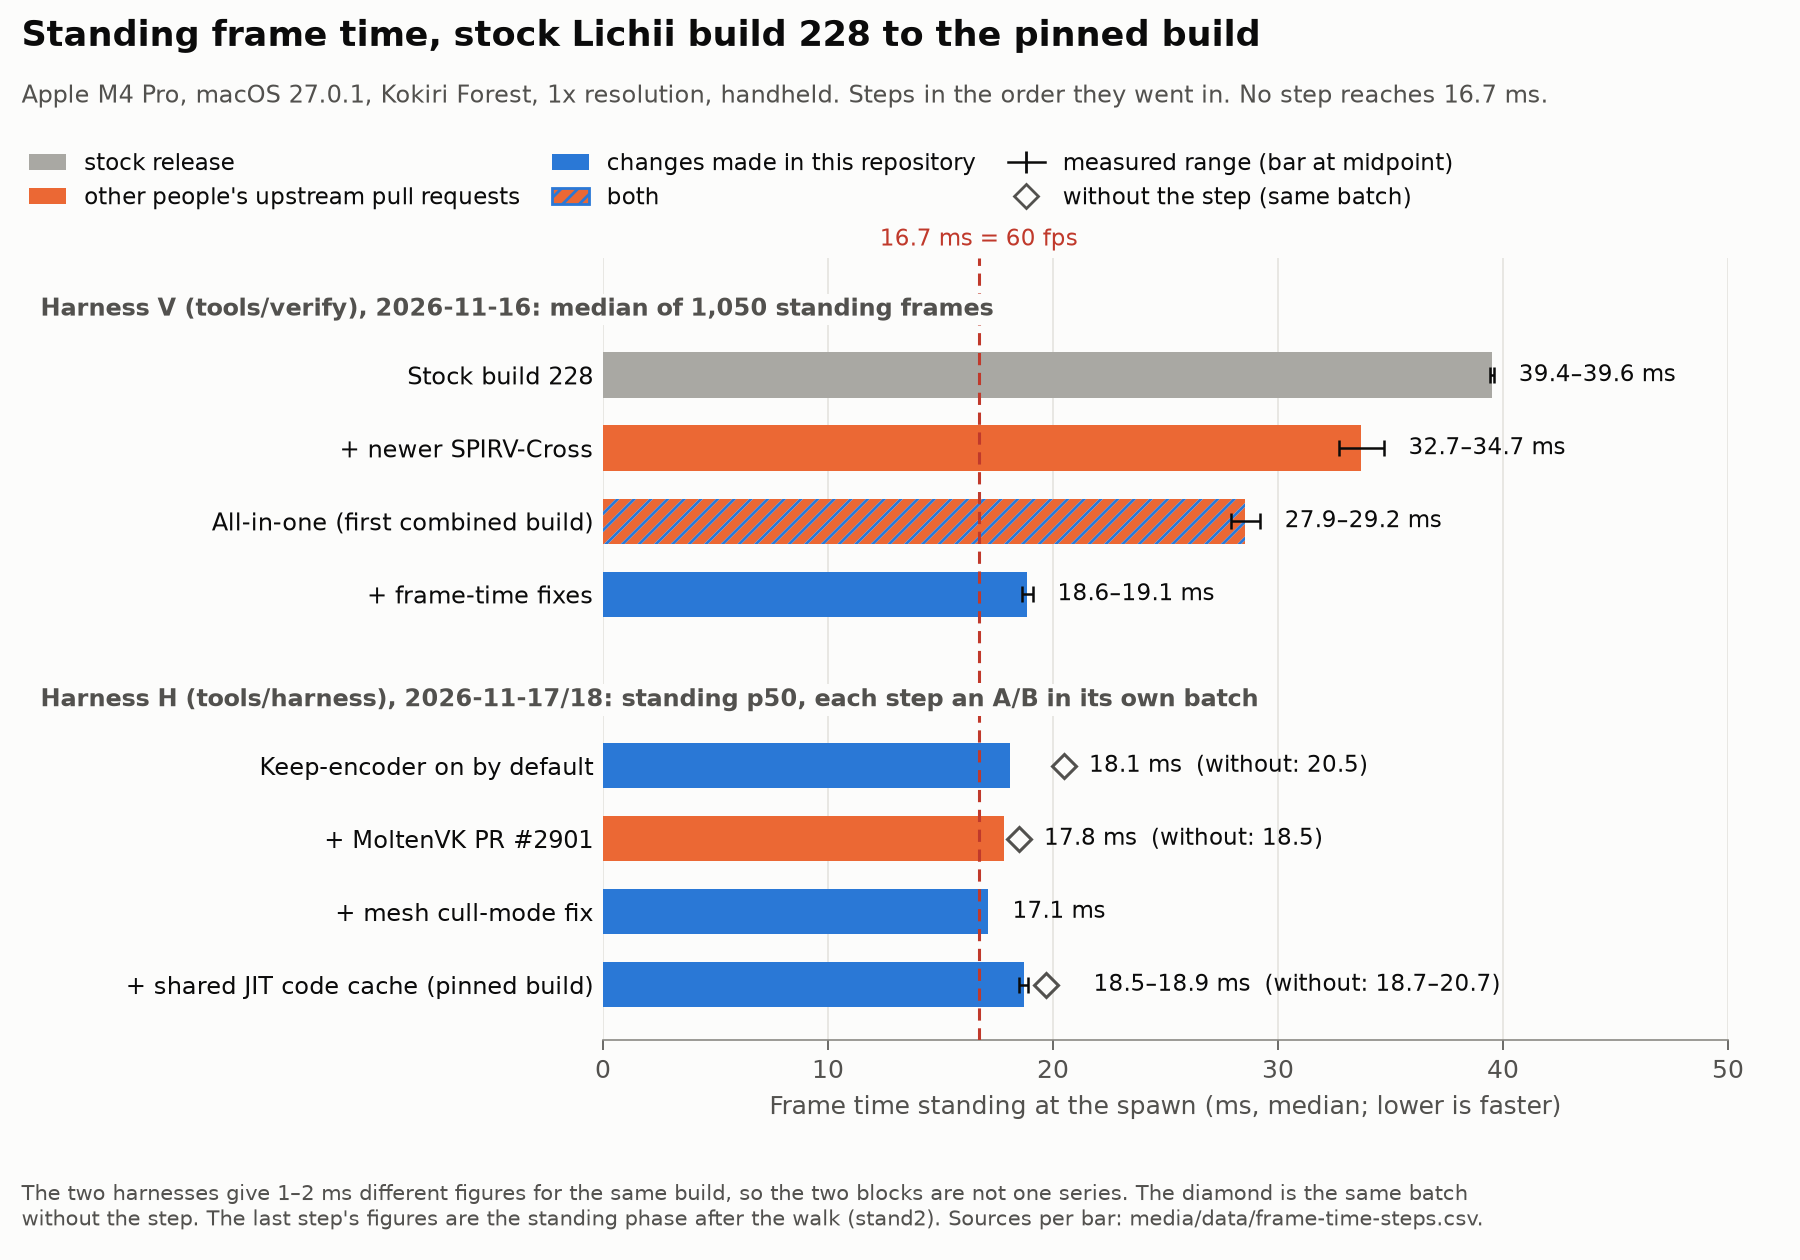
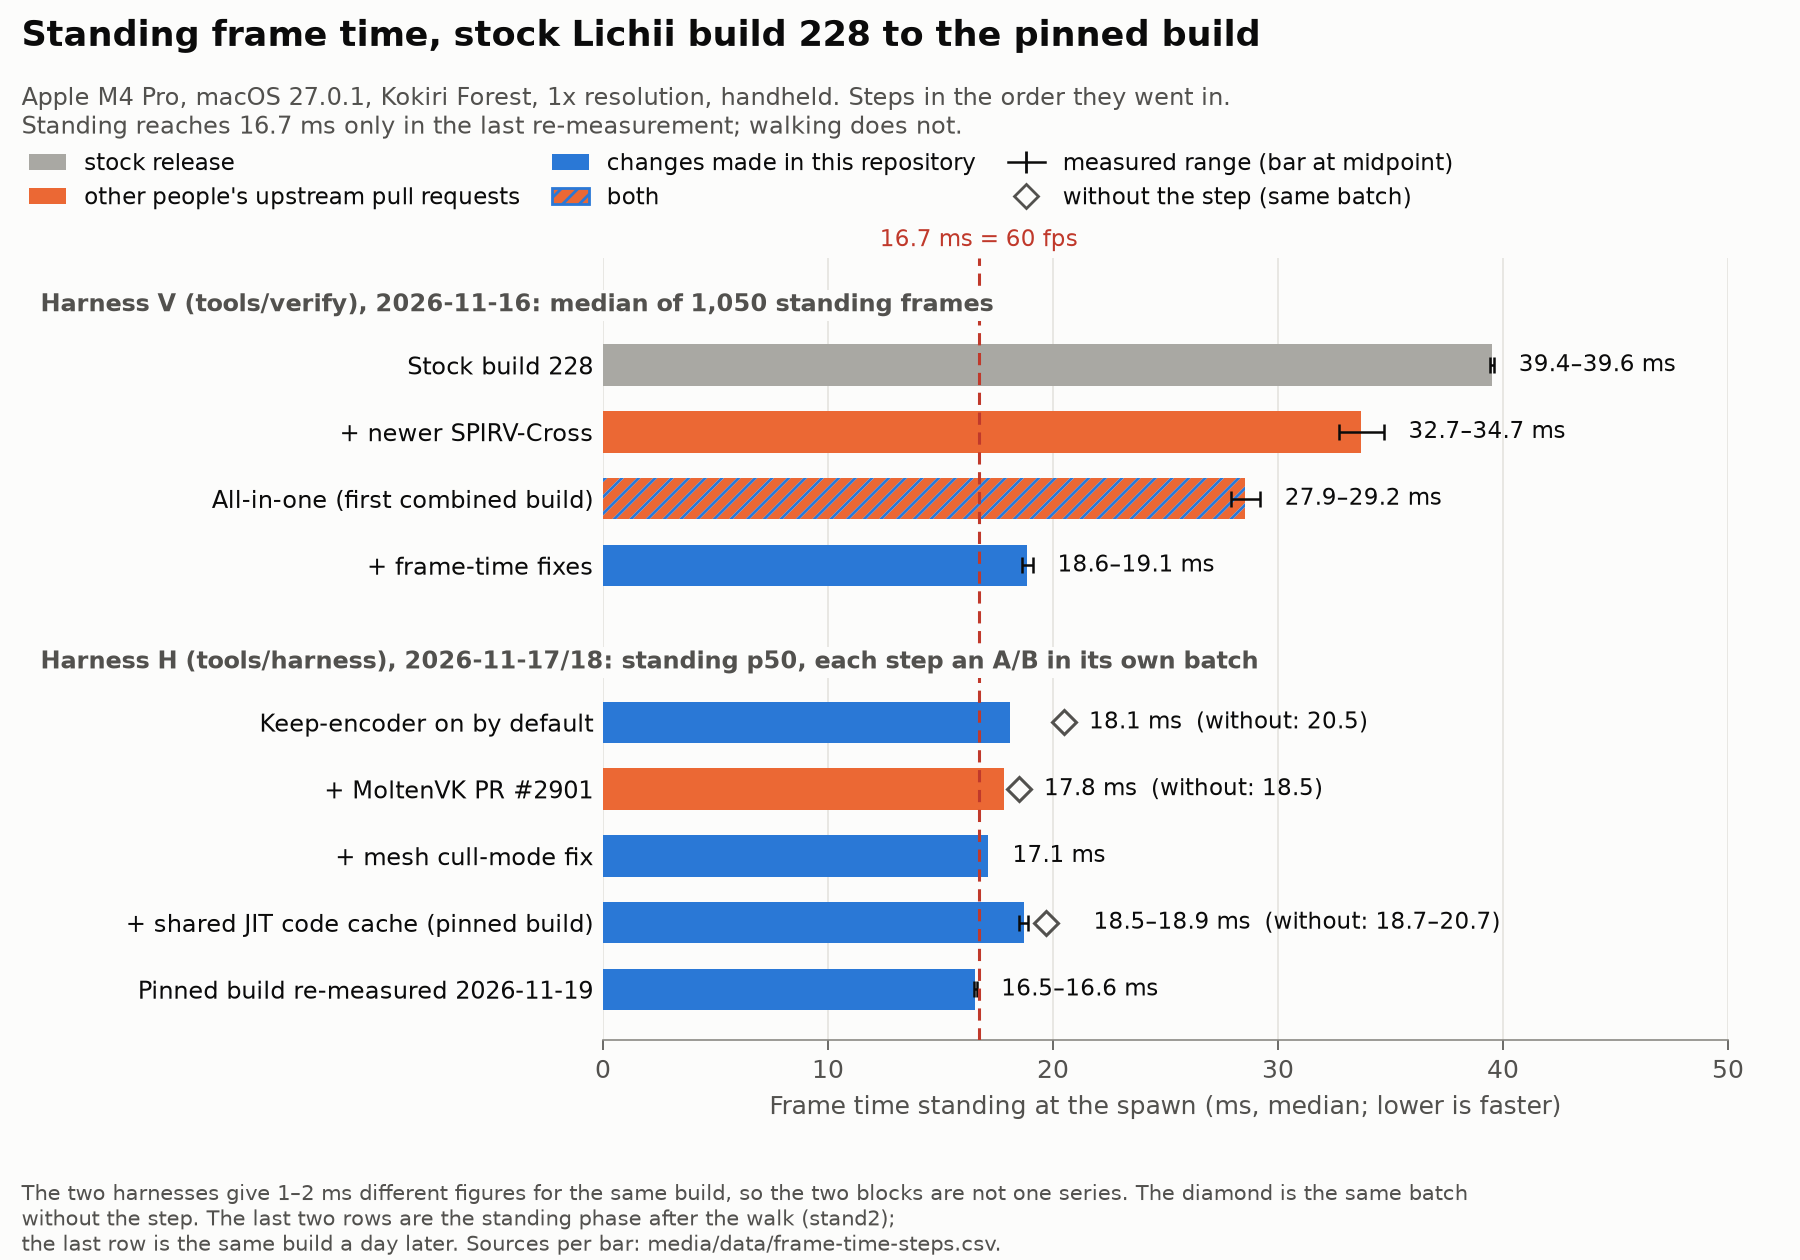
Chart row and screenshot for the 2026-11-19 runs of the pinned build

diff --git a/media/scripts/frame_time_steps.py b/media/scripts/frame_time_steps.py
@@ -84,7 +84,7 @@ def main(data, out):
     ax.text(16.7, -0.7, "16.7 ms = 60 fps", color=S.LINE60, fontsize=8.2, va="bottom", ha="center", clip_on=False)
 
     S.titles(fig, "Standing frame time, stock Lichii build 228 to the pinned build",
-             S.CONDITIONS + ". Steps in the order they went in. No step reaches 16.7 ms.")
+             S.CONDITIONS + ". Steps in the order they went in.\nStanding reaches 16.7 ms only in the last re-measurement; walking does not.")
 
     handles = [Patch(facecolor=S.GREY, label="stock release"),
                Patch(facecolor=S.ORANGE, label="other people's upstream pull requests"),
@@ -98,8 +98,8 @@ def main(data, out):
                handlelength=1.6, columnspacing=1.4)
     fig.text(0.012, 0.062,
              "The two harnesses give 1–2 ms different figures for the same build, so the two blocks are not one series. "
-             "The diamond is the same batch\nwithout the step. The last step's figures are the standing phase after the walk "
-             "(stand2). Sources per bar: media/data/frame-time-steps.csv.",
+             "The diamond is the same batch\nwithout the step. The last two rows are the standing phase after the walk "
+             "(stand2);\nthe last row is the same build a day later. Sources per bar: media/data/frame-time-steps.csv.",
              fontsize=7.6, color=S.TEXT2, va="top")
     fig.savefig(out, dpi=S.DPI)
 

diff --git a/media/README.md b/media/README.md
@@ -20,6 +20,7 @@ command below is run from `media/`, with `PY="uv run -q --with matplotlib --with
 | `mesh-position-before-after.png` | Native mesh shaders without and with the mesh position fix (Y flip and depth fixup added to the generated Metal source): foliage upside down in the sky and ground grass missing, then a picture that matches stock. | [research/mac-performance](../research/mac-performance/README.md), "Causes found", 4.3 (images `shots/native-mesh-no-position-fix.png`, `shots/native-mesh-with-position-fix.png`); TRACKER.md row 10 | as above, in `scripts/make_all.sh` |
 | `canopy-before-after.png` | MoltenVK main with `maxPushDescriptors` 287 (bare tree canopy, 5 compute pipelines failed) against the limit capped at 16 (leafy canopy, 135 of 135 compute pipelines). The white specks in the after picture are a separate fault. | `media/data/base-5189f8d.standing.jpg` and `push16.standing.jpg` (local, not tracked; runs `base` and `push16` in [research/compute-buffer-bounds](../research/compute-buffer-bounds/README.md)); TRACKER.md row 7 | as above, in `scripts/make_all.sh` |
 | `stock-vs-combined.png` | Stock Lichii build 228 (39.4–39.6 ms standing) against the first combined build, the all-in-one (27.9–29.2 ms), at the spawn; the picture matches by eye. | [research/mac-performance](../research/mac-performance/README.md), "Results, step by step", rows 0 and 2, and the images `shots/stock-228.png`, `shots/all-in-one.png` | as above, in `scripts/make_all.sh` |
+| `pinned-build.png` | The pinned build at the end of the test walk in Kokiri Forest, 2026-11-19 (1x resolution, handheld, the game's own upscaler) | run ab-20261119-041914, `pinned-r3`, `run-walkend.png` (local run data, not tracked), cropped to the game area | see `scripts/pair.py` `game_area` |
 
 Notes on the pictures:
 

diff --git a/TRACKER.md b/TRACKER.md
@@ -9,7 +9,9 @@ pinned build does not hold 60 fps: walking medians are 18.7–23 ms across the r
 
 Last full review: 2026-11-19. The most recent runs of the pinned build as `build.sh` makes it (2026-11-19, three
 runs, 600-frame phases): walking 19.5 / 18.9 / 19.6 ms, standing after the walk 16.6 / 16.5 / 16.5 ms, boot to
-in-game 39.4 / 38.0 / 39.3 s, pictures clean. Hardware: Apple M4 Pro (Mac16,8), macOS 27.0.1. Test spot, unless a row says
+in-game 39.4 / 38.0 / 39.3 s, pictures clean. The same build stood at 18.5–18.9 ms in the runs of
+2026-11-18. What changed between the two days is the practice tool (sloperinaGZ 0.0.7 to 0.0.9) and how busy the
+machine was; which of the two accounts for the 2 ms is not established. Hardware: Apple M4 Pro (Mac16,8), macOS 27.0.1. Test spot, unless a row says
 otherwise: standing at the Kokiri Forest spawn point, 1x resolution, handheld mode, GPU accuracy Low, asynchronous
 shaders on, post-processing off.
 

diff --git a/README.md b/README.md
@@ -25,6 +25,8 @@ stock compare the pinned build with the same build minus one change, which is ho
 The most recent runs (2026-11-19, the build `./build.sh` produces, three runs): walking 19.5 / 18.9 / 19.6 ms,
 standing after the walk 16.6 / 16.5 / 16.5 ms, boot to in-game 39.4 / 38.0 / 39.3 s.
 
+![The pinned build in Kokiri Forest](media/pinned-build.png)
+
 ![Standing frame time from stock Lichii build 228 to the pinned build](media/frame-time-steps.png)
 
 ![Frame times on the test walk without and with the shared JIT code cache](media/walk-frame-times.png)
